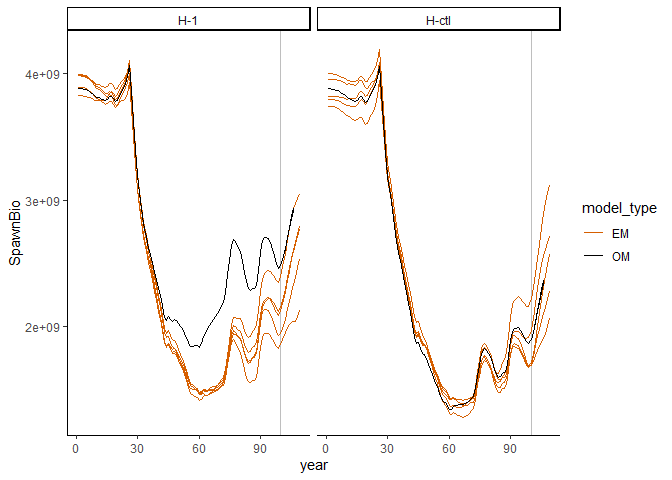
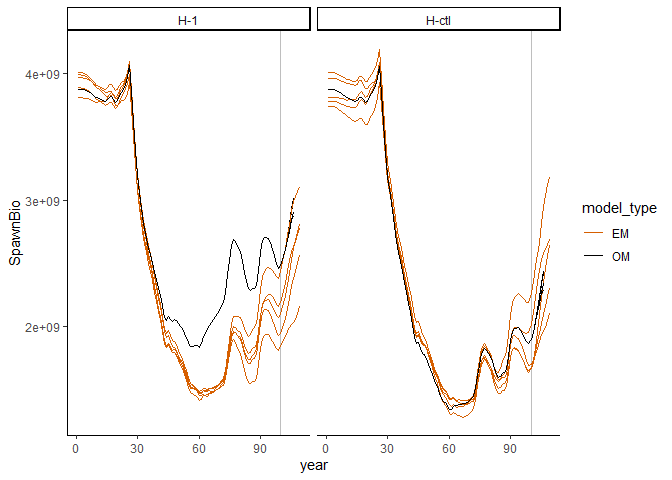
docs: readme #34, add troubleshooting, more example explanation

diff --git a/README.md b/README.md
@@ -59,7 +59,36 @@ You can read the help files with
 ?SSMSE
 ```
 
-## An SSMSE toy example
+## Troubleshooting Installation
+
+Here are some tips:
+
+  - Make sure you are using the development branch versions of R
+    packages `r4ss` and `ss3sim`. These can be installed separately
+    using `remotes::install_github("r4ss/r4ss", ref = "development")`
+    and `remotes::install_github("ss3sim/ss3sim", ref = "development")`.
+  - If R asks “Would you like to download from sources that need
+    compilation?”, select “no”, as the older compiled versions should
+    work fine.
+  - If R asks which packages you would like to update, select “none.”
+    Although it is good to update to keep packages current, install can
+    sometimes be frustrating when updating many packages and skipping
+    this step can eliminate issues in the short term.
+  - If running into an error during install, try closing out all R
+    sessions open (e.g., other R GUI or R studio windows), restarting
+    the R session and trying
+    `remotes::install_github("nmfs-fish-tools/SSMSE")` again.
+  - If still running into an error during install, and it seems to be a
+    problem installing a particular package, try restarting the R
+    session, using `install.packages()` to download the package that
+    caused the error, restarting the R session, and trying
+    `remotes::install_github("nmfs-fish-tools/SSMSE")` again. This step
+    may need to be done several times for different R packages.
+
+Still having trouble installing SSMSE? Please don’t hesitate to open an
+[issue](https://github.com/nmfs-fish-tools/SSMSE/issues).
+
+## An SSMSE example
 
 Suppose we want to look at 2 scenarios, one where Steepness (H) is
 specified correctly and one where it is specified incorrectly in an
@@ -70,11 +99,12 @@ estimation model (EM):
 2.  **H-1**: Cod operating model (OM; H = 1) with misspecified cod model
     EM (fixed H = 0.65)
 
-Note that this is a toy example and not a true MSE, so the OM and EM
+Note that this is a simple example and not a true MSE, so the OM and EM
 structures for both scenarios are identical, except for different
 steepness between the OM and EM in scenario 2. We will assume we want to
 run the MSE loop for 6 years, with a stock assessment occuring every 3
-years. The cod model’s last year is 100, so the OM is initially
+years (and forecasting catch to maintain 40% of unfished spawning stock
+biomass). The cod model’s last year is 100, so the OM is initially
 conditioned through year 100. Then, after conditioning the operating
 model through year 100, assessments will occur in years 100, 103, and
 106. Note that the assessment run in year 106 will generate future catch
@@ -82,9 +112,10 @@ for years 107, 108, and 109, but the future catch values are not input
 into the operating model because the MSE loop is specified to only run
 through year 106).
 
+### Setup R workspace folders
+
 First, we will load the `SSMSE` package and create a folder in which to
 run the example:
-
 
 ``` r
 library(SSMSE) #load the package
@@ -93,15 +124,21 @@ library(foreach) #if using run_parallel = TRUE
 library(doParallel) #if using run_parallel = TRUE
 ```
 
+    ## Loading SSMSE
+    ## Loading required package: iterators
+    ## Loading required package: parallel
+
 ``` r
 # Create a folder for the output in the working directory.
 run_SSMSE_dir <- file.path("run_SSMSE-ex")
 dir.create(run_SSMSE_dir)
 ```
 
-The cod model with H = 0.65 is included as external package data.
-However, we will need to modify it to use as an operating model with H =
-1.
+### Create the operating models (OMs)
+
+The cod model with H = 0.65 (as in scenario 1) is included as external
+package data in SSMSE. However, we will need to modify it to use as an
+operating model with H = 1 (as in scenario 2).
 
 ``` r
 cod_mod_path <- system.file("extdata", "models", "cod", package = "SSMSE")
@@ -122,16 +159,17 @@ r4ss::SS_changepars(dir = cod_1_path, ctlfile = "control.ss_new",
 ## [1] "SR_BH_steep"
 ## These are the ctl file lines as they currently exist:
 ##      LO HI INIT PRIOR PR_SD PR_type PHASE env_var&link dev_link dev_minyr
-## 107 0.2  1 0.65   0.7  0.05       0    -4            0        0         0
+## 108 0.2  1 0.65   0.7  0.05       0    -4            0        0         0
 ##     dev_maxyr dev_PH Block Block_Fxn       Label Linenum
-## 107         0      0     0         0 SR_BH_steep     107
+## 108         0      0     0         0 SR_BH_steep     108
 ## line numbers in control file (n=1):
-## 107
+## 108
 ## wrote new file to control_modified.ss with the following changes:
 ##   oldvals newvals oldphase newphase oldlos newlos oldhis newhis oldprior
 ## 1    0.65       1       -4       -4    0.2    0.2      1      1      0.7
 ##   newprior oldprsd newprsd oldprtype newprtype       comment
 ## 1      0.7    0.05    0.05         0         0 # SR_BH_steep
+# read in the par file to save the historic recruitment deviations:
 parfile <- r4ss::SS_readpar_3.30(parfile = file.path(cod_1_path, "ss.par"),
                                    datsource = file.path(cod_1_path, "ss3.dat"), 
                           ctlsource = file.path(cod_1_path, "control.ss_new"), 
@@ -141,9 +179,8 @@ file.remove(file.path(cod_1_path, "control.ss_new"))
 ## [1] TRUE
 file.remove(file.path(cod_1_path, "control.ss"))
 ## [1] TRUE
-file.remove(file.path(cod_1_path, "ss.par")) # delete control file because no longer need.
+file.remove(file.path(cod_1_path, "ss.par"))
 ## [1] TRUE
-# rename file to control.ss_new () and make a copy as the control file
 file.rename(from = file.path(cod_1_path, "control_modified.ss"),
             to = file.path(cod_1_path, "control.ss"))
 ## [1] TRUE
@@ -167,14 +204,81 @@ r4ss::SS_writepar_3.30(new_parfile, outfile = file.path(cod_1_path, "ss.par"),
                        verbose = FALSE)
 ```
 
+### Examine the management procedure used
+
+We will use the same management procedure for both scenarios:
+
+1.  Conduct a stock assessment every 3 years to get stock status.
+2.  Forecast from this stock assessment using the SS forecast file to
+    get future catch.
+3.  Put this forecasted catch (without implementation error, in the case
+    of this example) back into the OM. Extend the OM forward in time to
+    get the true values for the population.
+
+We will now take a look at step 2 in the management procedure, which is
+implemented using the forecasting module in SS. We will examine the
+forecast file for the estimation model to better understand how catches
+will be forecasted from the assessment. We will use the same management
+procedure in both of these scenarios, although for a full MSE analysis,
+it is likely that multiple management procedures would be compared.
+
+``` r
+fore <- r4ss::SS_readforecast(
+  system.file("extdata", "models", "cod", "forecast.ss", package = "SSMSE"),
+  verbose = FALSE)
+fore$Forecast 
+## [1] 3
+fore$Btarget
+## [1] 0.4
+```
+
+`fore$Forecast = 3` means our forecasts from the assessment will use the
+F to achieve a relative (to unfished) spawning stock biomass. Based on
+`fore$Btarget`, the relative biiomass target is 40% of unfished spawning
+stock biomass. Note also that the control rule `fore$BforconstantF` and
+`fore$BfornoF` values are set low to make it unlikely that they will be
+used:
+
+``` r
+fore$BforconstantF
+## [1] 0.03
+fore$BfornoF
+## [1] 0.01
+```
+
+Futhermore, `fore$Flimitfraction` is set to 1 so that the forecasted
+catch is set equal to the overfishing limit (for simplicity):
+
+``` r
+fore$Flimitfraction
+## [1] 1
+```
+
+Note that the number of forecast years is 1:
+
+``` r
+fore$Nforecastyrs
+## [1] 1
+```
+
+However, an assessment will be conducted every 3 years and 3 years of
+forecasting is required. SSMSE will modify this value to the appropriate
+number of forecasting years.
+
+More information on using the forecast module in SS to forecast catches
+is available in the [Stock Synthesis users
+manual](https://vlab.ncep.noaa.gov/web/stock-synthesis/document-library/-/document_library/0LmuycloZeIt/view/4513132).
+
+### Adding observation error: Specify how to sample data from the Operating model
+
 The argument `sample_struct` specifies the structure for sampling from
 the OM (and passing to the EM). The function `create_sample_struct` can
 be used to construct a simple sampling structure consistent with an
 input data file:
 
 ``` r
-EM_datfile <- system.file("extdata", "models", "cod", "ss3.dat", package = "SSMSE")
-sample_struct <- create_sample_struct(dat = EM_datfile, nyrs = 6) # note warning
+datfile <- system.file("extdata", "models", "cod", "ss3.dat", package = "SSMSE")
+sample_struct <- create_sample_struct(dat = datfile, nyrs = 6) # note warning
 ## Warning in FUN(X[[i]], ...): Pattern not found for lencomp: FltSvy 1, Seas 1.
 ## Returning NA for Yr in this dataframe.
 sample_struct
@@ -203,9 +307,11 @@ sample_struct
 The sample structure specifies that catch will be added to the
 estimation model every year (years 101 to 106), but an index of
 abundance (i.e., CPUE) and age composition (i.e., agecomp) will only be
-added in year 105. The user could modify this sampling strategy (for
-example, maybe age composition should also be sampled from FltSvy 2 in
-Yr 102; the user could add another line to the dataframe in
+added in year 105. We will use the same sampling scheme for both
+scenarios, but it is possible to specify different sampling for each
+scenario. The user could modify this sampling strategy (for example,
+maybe age composition should also be sampled from FltSvy 2 in Yr 102;
+the user could add another line to the dataframe in
 `sample_struct$agecomp`).
 
 Note that length comp (lencomp) includes an `NA` value for year. This is
@@ -223,7 +329,19 @@ The same sampling structure will be used for both scenarios:
 sample_struct_list <- list("H-ctl" = sample_struct, "H-1" = sample_struct)
 ```
 
-We can now use `run_SSMSE` to run the MSE analysis loop:
+### Adding process error through recruitment devitations
+
+Process error can be added through the recruitment deviations. In this
+case, `rec_dev_pattern = "rand"` in the call to `run_SSMSE` is used to
+use random recruitment deviations with the same standard deviation as
+the historical recruitment deviation pattern. Set `scope = 2` so that
+the same recruitment deviation patterns are used across scenarios, but
+different patterns are use across iterations in the same scenario.
+
+### Run SSMSE
+
+Now, use `run_SSMSE` to run the MSE analysis loop (note this will take
+some time to run, \~ 20 min):
 
 ``` r
 run_res_path <- file.path(run_SSMSE_dir, "results")
@@ -238,23 +356,23 @@ run_SSMSE(scen_name_vec = c("H-ctl", "H-1"),# name of the scenario
           use_SS_boot_vec = c(TRUE, TRUE), # use the SS bootstrap module for sampling
           nyrs_vec = c(6, 6),        # Years to project OM forward
           nyrs_assess_vec = c(3, 3), # Years between assessments
-          rec_dev_pattern = c("none"), # Don't use recruitment deviations
-          impl_error_pattern = c("none"), # Don't use implementation error
+          rec_dev_pattern = "rand", # Don't use recruitment deviations
+          scope = "2", # to use the same recruitment devs across scenarios.
+          impl_error_pattern = "none", # Don't use implementation error
           run_parallel = TRUE,
           sample_struct_list = sample_struct_list, # How to sample data for running the EM.
           seed = 12345) #Set a fixed integer seed that allows replication 
 ```
 
+Here, only 5 iterations are run per scenario; However, in a real MSE
+analysis, running 100+ iterations would be preferred, so that the full
+range of uncertainty (given observation and process errors) is visible
+in the results.
+
+### Summarize results and view output
+
 The function `SSMSE_summary_all` can be used to summarize the model
-results in a list of dataframes. Note that if you have issues, try
-reinstalling SSMSE using
-`remotes::install_github("nmfs-fish-tools/SSMSE")` and restarting your R
-session. Also, make sure you are using the development branch versions
-of [r4ss](https://github.com/r4ss/r4ss) and
-[ss3sim](https://github.com/ss3sim/ss3sim) (by installing
-`remotes::install_github("r4ss/r4ss@development")` and
-`remotes::install_github("ss3sim/ss3sim@development")`. These versions
-should be installed automatically when SSMSE is downloaded.
+results in a list of dataframes.
 
 ``` r
 # Summarize 1 iteration of output
@@ -355,8 +473,8 @@ unacceptable behavior to <fisheries.toolbox@noaa.gov>.
 SSMSE is still a work in progress, with basic framework in development.
 Some new directions we hope to work on shortly:
 
-  - Expanding on examples to illustrate the package
-  - Improving usability of the wrapper functions that users access
+  - Expanding on examples to illustrate the package (e.g., illustrating
+    how performance metrics can be calculated)
   - Adding more complex sampling options
   - Adding functions to calculate performance metrics
   - Adding functions to make some basic plots of diagonstics and results
